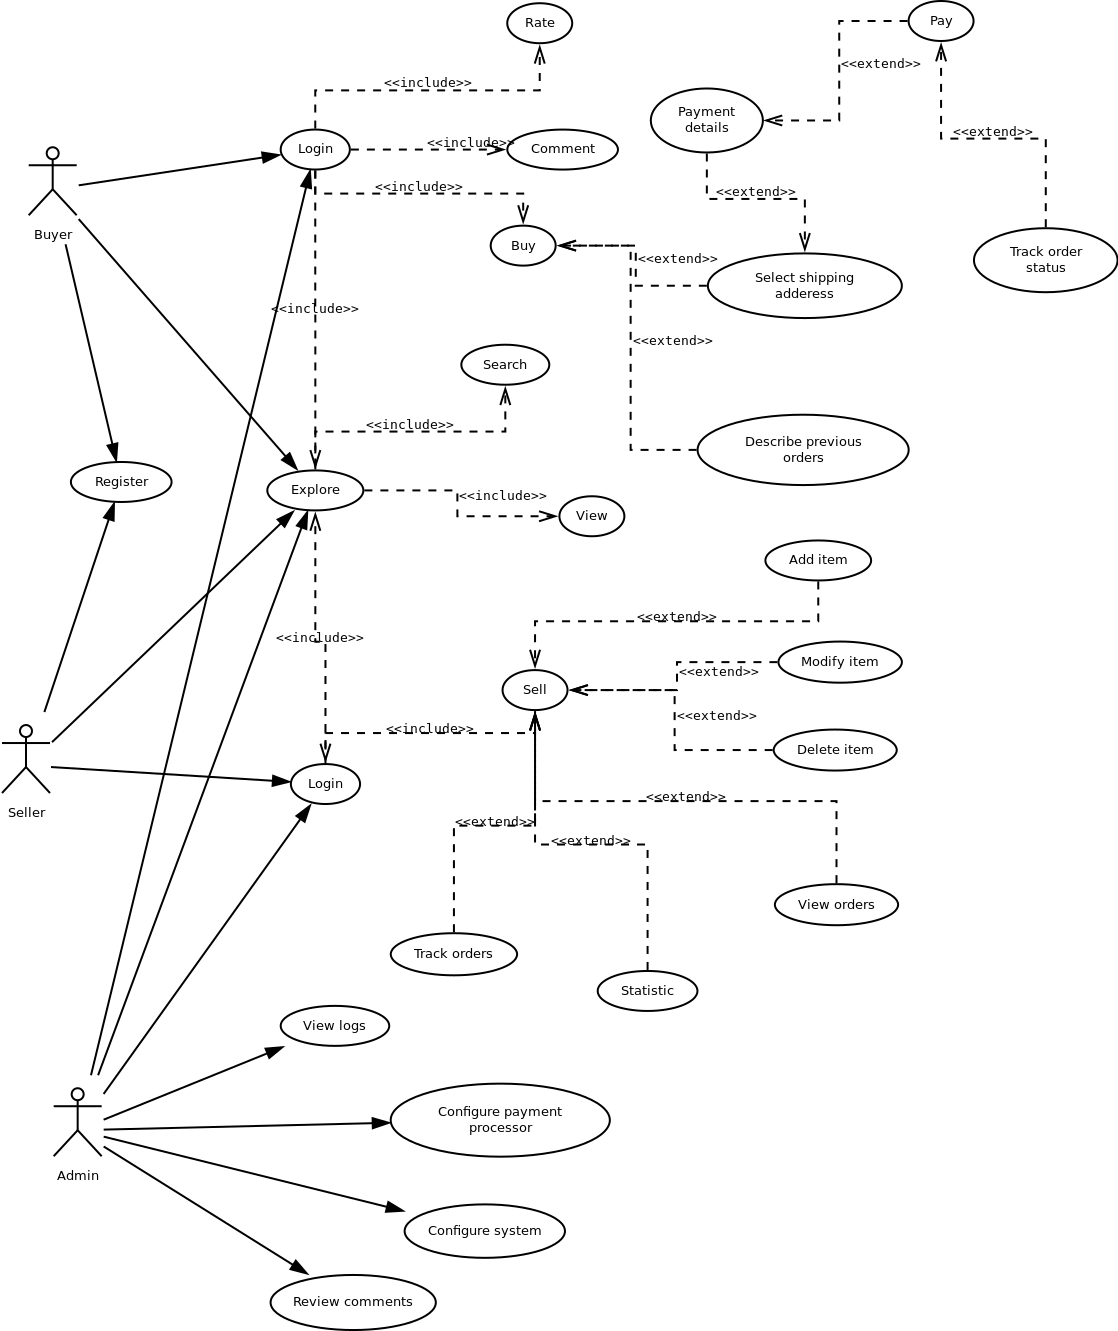
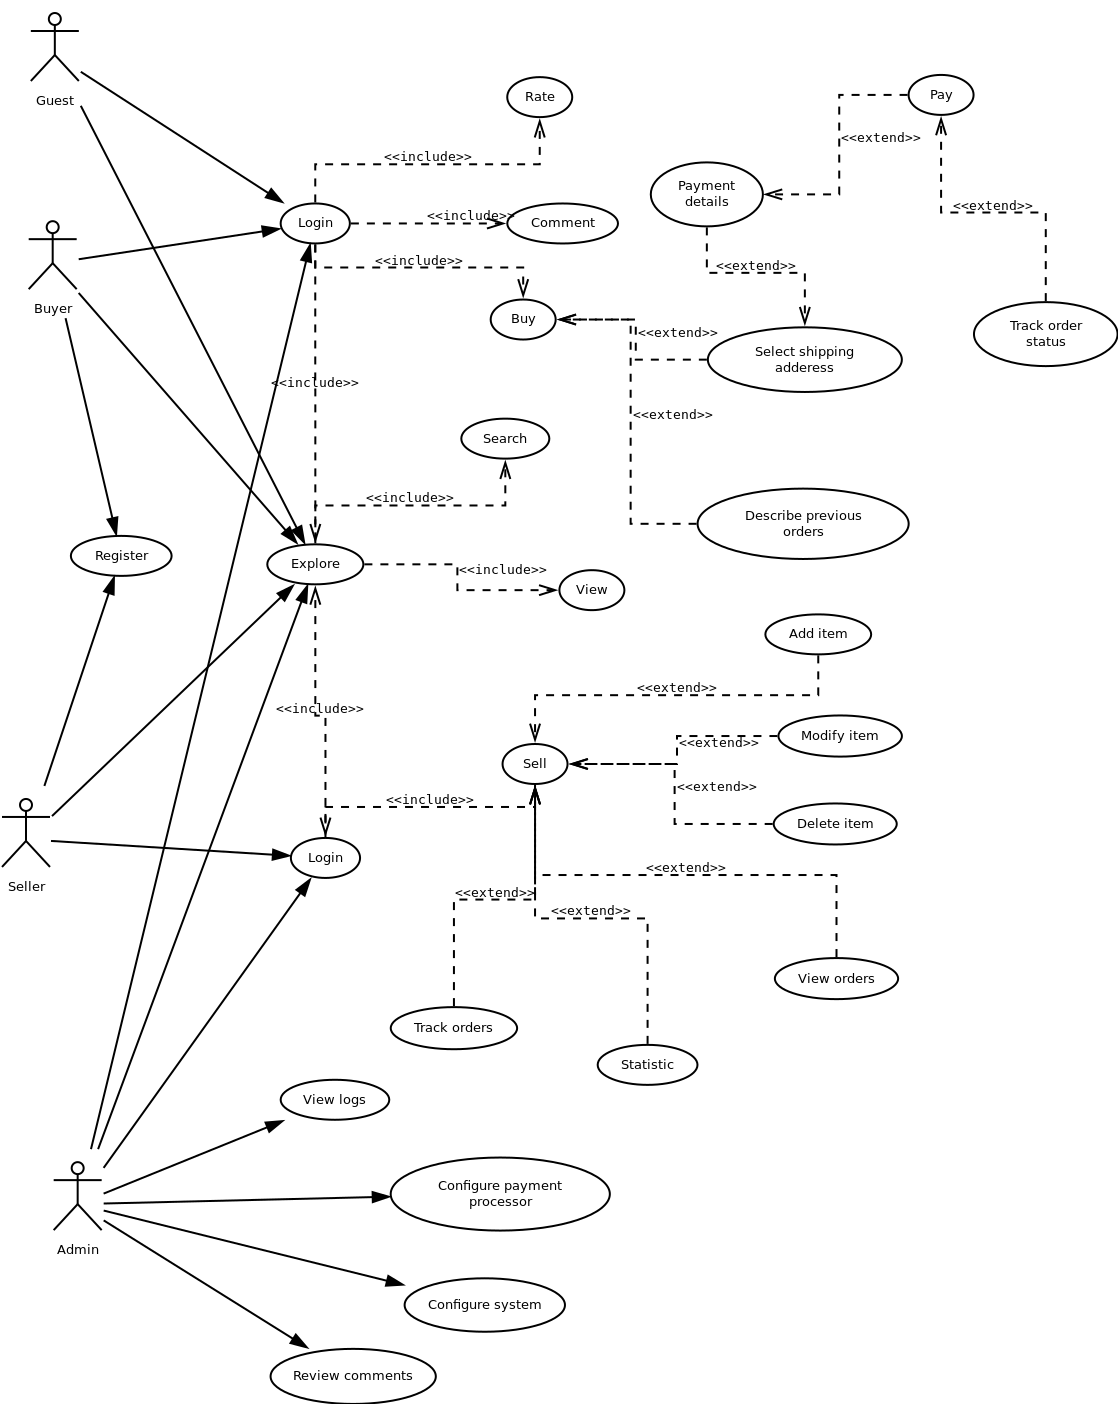
add info about acl and js classes drafts

diff --git a/06_spa.md b/06_spa.md
@@ -28,3 +28,168 @@ Depends on it appropriate functionality will be realized.
 Here is general classes diagram, it could be changed during app realization, however all these classes and methods will help with app development:
 
 ![Classes diagram](https://github.com/serhii-havrylenko/pritle/blob/master/classes.png)
+
+# Access control
+
+Access control system could be built in the following way.
+
+## Roles
+
+Roles are defined in separate table 'Roles'. It contains only one field 'name' with datatype enum (Guest, Buyer, Seller and Admin).
+
+Default role for all users is guest, unless user is logged in.
+
+## ACL
+
+ACL - separate table which contains string field only. This field describe exact element or group of elements on UI which is restricted for some roles. For example:
+* items_view - allowed for all users
+* item_delete - allowed only for item owner with role seller or Admin
+
+## Access for roles
+
+Each role has a set of ACL related to it.
+
+### Guest
+
+Guest user allowed to:
+* view categories and items
+* read comments and ranking
+* compare items
+* search items
+* sign in/sign up
+* add items to basket
+
+### Buyer
+
+Role for buyer includes everything from guest role plus after successful sign in:
+* buy products
+* edit user details
+* add/modify/delete shipping addresses
+* check previous orders
+* track orders
+* rate items
+* comment on items
+
+### Seller
+
+Seller role has the same functionality as guest plus:
+* edit user details
+* check previous orders
+* track orders
+* rate items
+* comment on items
+* add/modify/delete items
+* view all orders
+* track orders
+* gather statistic
+
+### Admin
+
+Admin role includes all previous roles plus extra access to the management panel where it is allowed to:
+* configure payment processors
+* review comments and remove them
+* ban or temporary disable users
+* configure ACL for different role
+* manage roles
+* gather statistic about payments and orders
+* etc.
+
+## How it works
+
+Access control system has quite simple realization:
+* User tries to get access to specific page
+* Page contains set of elements with different ACLs for it (for example item details page - item_details_view, item_comment, item_rate, etc. )
+* UI when renders each component checks user role and it's ACLs. If user's role matches to element ACL - element renders, if not - no.
+
+With access control system like this it is easy to add or change user roles, easy to add some restricted elements to already existed pages and basically - easy to maintain and configure (Configuration available through admin panel)
+
+# JS classes drafts
+
+This part depends on chosen framework for UI realization. In case of realization in AngularJS (no matter which version, difference only in syntax - ECMAScript6 or typescript, base conception is still the same) all classes will be quite similar to UML classes diagrams with some extra methods for events handling, validation and so on.
+
+## Resources
+
+A set of similar resources will be created for interaction with REST API like:
+```javascript
+export class UsersFactory {
+  constructor($resource, apiBaseUrl) {
+    'ngInject';
+
+    return $resource(`${apiBaseUrl}/:action/:id/`, { id: '@id', action: 'users' }, {
+      update: {
+        method: 'PUT'
+      },
+      login: {
+        method: 'POST',
+        params: {
+          action: 'auth'
+        }
+      }
+    });
+  }
+}
+```
+or
+```javascript
+export class ItemsFactory {
+  constructor($resource, apiBaseUrl) {
+    'ngInject';
+
+    return $resource(`${apiBaseUrl}/items/:id`, { id: '@id' }, {
+      update: {
+        method: 'PUT'
+      }
+    });
+  }
+}
+```
+
+All of them will be quite similar.
+
+## Business logic
+
+Basically almost all business logic will be implemented inside specific services. Again, almost everything will be similar to UML classes diagram:
+```javascript
+export class OrdersService {
+  constructor(user, OrdersFactory, order) {
+    'ngInject';
+
+    this.user = user;
+    this.OrdersFactory = OrdersFactory;
+    this.order = order;
+  }
+
+  getOrders() {
+
+  }
+
+  getUser() {
+
+  }
+
+  place() {
+
+  }
+
+  getPayment() {
+
+  }
+
+  getItems() {
+
+  }
+
+  getShippingAddress() {
+
+  }
+
+  changeStatus() {
+
+  }
+
+  getStatus() {
+
+  }
+  ...
+}
+```
